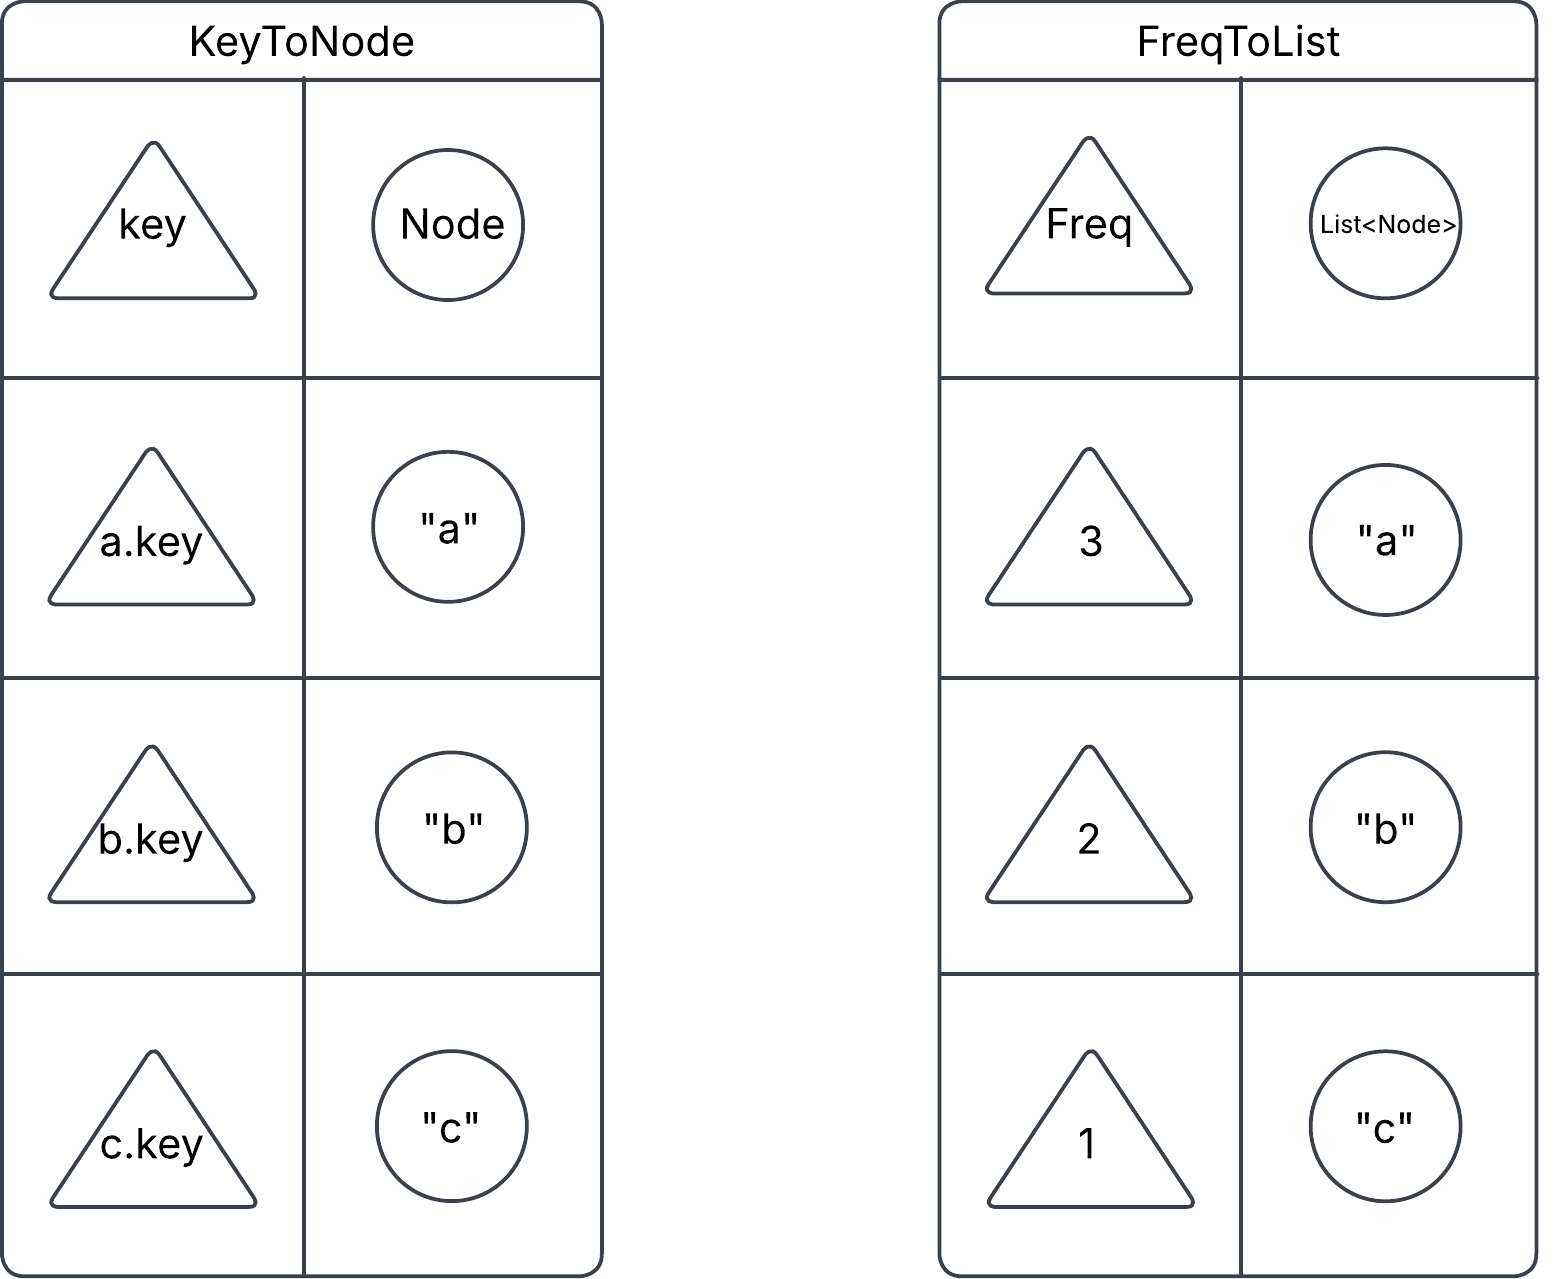
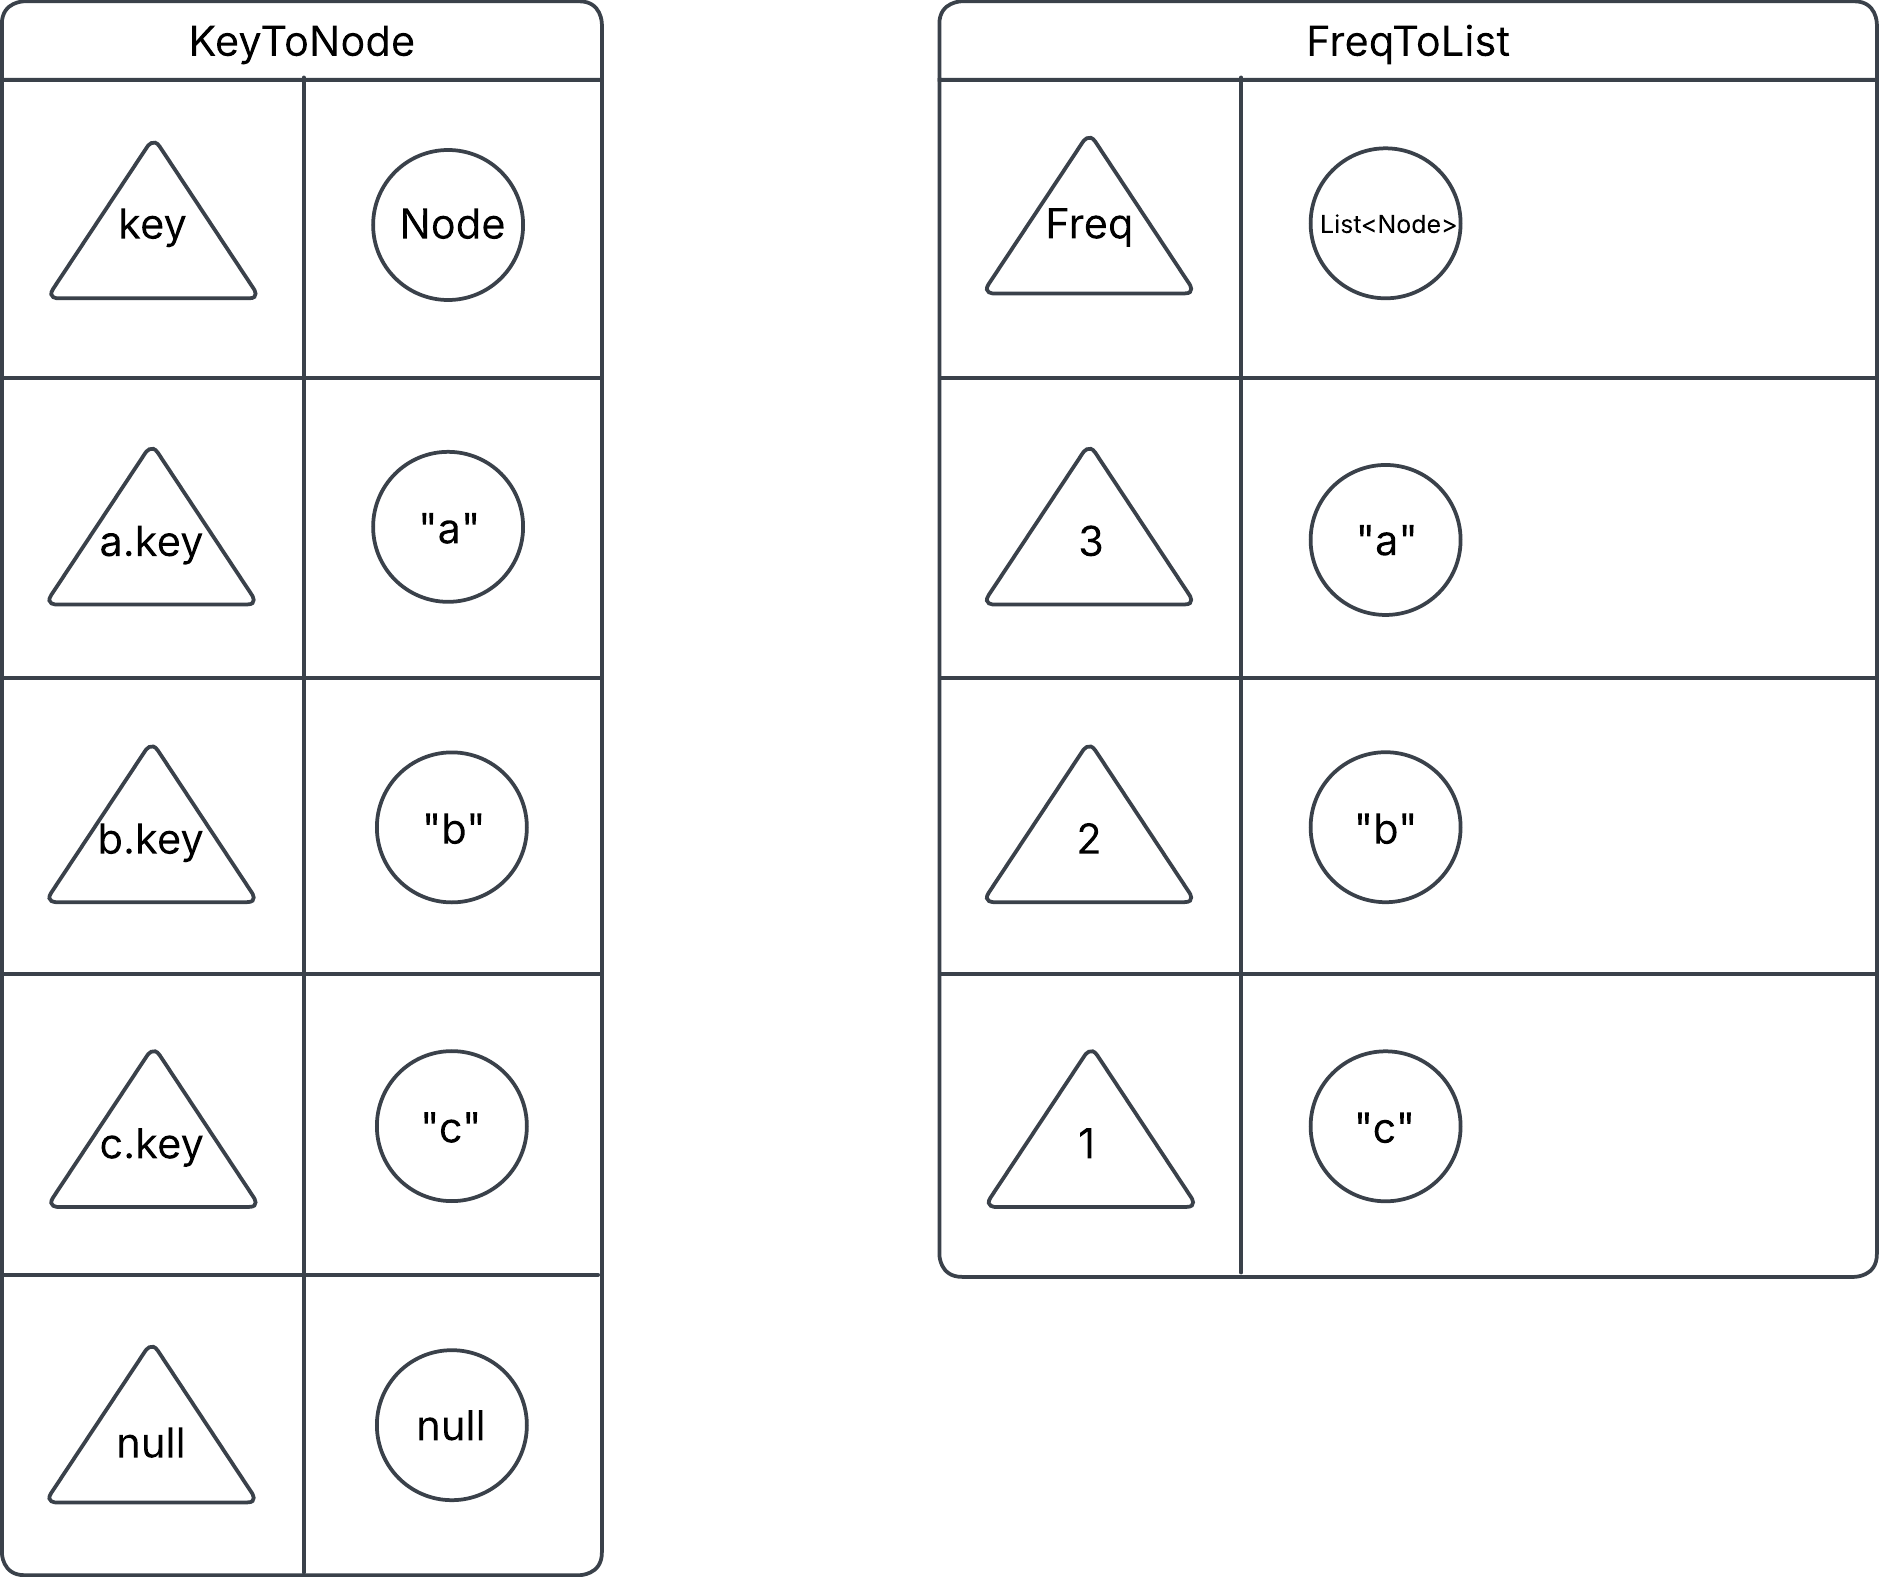
imagens atualizadas, erros de escrita corrigidos e simplificação de alguns trechos explicando a implementação.

diff --git a/content/posts/eda-lfu.md b/content/posts/eda-lfu.md
@@ -61,7 +61,7 @@ Estamos na mesma situação de busca por um elemento, cujo nó não existe no ca
 
 `[("a", 3), ("c", 2), ("d", 1)]`
 
-É importante lembrar, que ao remover o nó, esse elemento permanece no sistema. Logo, é irrelevante alterar a frequência de um nó removido para 0, pois este objeto será apagado, e, consequentemente, não possui frequência.
+É importante lembrar que, ao remover o nó, apagamos apenas o objeto que representa o elemento no cache. Se esse elemento for adicionado ao cache novamente, um novo objeto será criado, e possuirá frequência 1.
 
 Agora é um bom momento para testar seu aprendizado até este momento.
 
@@ -161,7 +161,7 @@ Utilizando o método ```get(String value)``` apresentado anteriormente, faremos 
 
 **hit:** A operação custa $O(n)$, pois temos que iterar pela lista até encontrar o elemento. Após incrementar a frequência do elemento, devemos ordenar a lista, em um processo análogo à inserção ordenada. Como a lista possui tamanho $n$, e fazemos uma busca linear, seguida de uma inserção ordenada, teremos custo total $O(n)$.
 
-**miss:** A opeação custa $O(n)$. Em nossa abordagem, escolhemos implementar o cache LFU como uma lista encadeada. Essa escolha foi intecional, porque a complexidade da adição em uma linkedlist é $O(1)$ (tempo constante). Porém, como ainda realizamos uma busca linear para procurar pelo elemento, que não estará na lista, e a lista tem tamanho n, a complexidade da busca será $O(n)$. Como sabemos, $O(n) + O(1)$ é $O(n)$.
+**miss:** A operação custa $O(n)$. Em nossa abordagem, escolhemos implementar o cache LFU como uma lista encadeada. Essa escolha foi intencional, porque a complexidade da adição em uma linkedlist é $O(1)$ (tempo constante). Porém, como ainda realizamos uma busca linear para procurar pelo elemento, que não estará na lista, e a lista tem tamanho n, a complexidade da busca será $O(n)$. Como sabemos, $O(n) + O(1)$ é $O(n)$.
 
 Além disso, em casos de ***miss***, a operação possui outro agravante, pois temos que ir ao banco de dados para realizar a busca pelo elemento, que é um ***processo lento***. Entretanto, este material não leva esses fatores em conta, pois estamos discutindo aspectos isolados da política LFU.
 
@@ -173,31 +173,45 @@ Com essas mudanças, nosso cache será composto por duas tabelas hash, uma respo
 
 Para os exemplos seguintes, assumimos o cache de tamanho 4, representado nesta imagem.
 
-<figure style="align: center; margin-left:5%; width: 90%"> 
+<figure style="align: center; width: 90%"> 
     <img src="cache-inicial.png">
 </figure>
 
-Em outras palavras, o cache funciona assim: Ao realizar a operação get, faremos a busca na tabela chave-nó. Caso o elemento exista no cache, devemos remover o nó da lista em que está contido. Em seguida, atualizamos sua frequência, e faremos sua inserção na nova lista de frequências. Abaixo, segue ilustração de como funciona o processo.
+O funcionamento do cache ocorre da seguinte forma: Ao realizar uma operação get, a busca por um nó que contém o elemento desejado é feita na tabela chave-nó. A partir do resultado dessa busca, o algoritmo divide-se em casos, que dependem do tamanho atual do cache.
 
-<figure style="align: center; margin-left:5%; width: 90%"> 
-    <img src="elemento-existente.png">
+Caso o elemento não possui nó existente no cache, verificamos a capacidade do cache. Se o cache possui espaço livre, adicionamos um novo nó que contém este elemento na tabela chave-nó, e na lista de frequência 1 na tabela frequência-lista. 
+
+<figure style="align: center; width: 90%"> 
+    <img src="cache-novo-elemento.png">
     <figcaption align="center">
-        A imagem mostra o resultado do cache após realizar get("d"). Note que removemos o nó da lista em que estava antes, e atualizamos sua frequência antes de adicionarmos o nó na tabela novamente.
     </figcaption>
 </figure>
 
-Note que o exemplo não cobre o caso em que aumentamos a frequência do elemento mais acessado no cache. Nesta situação, devemos verificar se a frequência existe como chave, antes de adicionar o nó à tabela.
+Se a busca encontrou um nó que contém o elemento, devemos remover o nó da lista em que está contido. Em seguida, atualizamos sua frequência, e faremos sua inserção na nova lista de frequências. Abaixo, segue ilustração de como funciona o processo.
 
-Se o nó não está no cache, verificamos a capacidade do cache. Se o cache estiver cheio, devemos recuperar a lista que possui os nós com a menor frequência, para remover estes elementos do cache. Após isso, adicionamos o novo nó às tabelas. Tome como exemplo, a imagem abaixo.
-
-<figure style="align: center; margin-left:5%; width: 90%"> 
-    <img src="elemento-naoexistente.png">
+<figure style="align: center; width: 90%"> 
+    <img src="cache-encontrou.png">
     <figcaption align="center">
-        A imagem mostra o resultado do cache após realizar get("e"). Note que removemos os nós com menor frequência do cache, antes de adicionar o elemento que procuramos.
     </figcaption>
 </figure>
 
-Observe também, que este modelo trata a situação em que existe mais de um nó com a menor frequência. Neste caso, apagaremos apenas o último elemento da lista. Se a lista esteja completamente vazia após remover o último nó
+Caso o nó encontrado pela busca seja o mais frequente do cache, criamos uma nova lista para armazenar os nós que possuem a frequência máxima, e repetimos o procedimento feito quando um nó é encontrado. Isto é, após criar a nova lista, removemos o nó, atualizamos sua frequência e inserimos este nó na lista correspondente. A imagem abaixo exemplifica essa situação.
+
+<figure style="align: center; width: 90%"> 
+    <img src="cache-frequencia-maxima.png">
+    <figcaption align="center">
+    </figcaption>
+</figure>
+
+Se o nó não foi encontrado, e a capacidade do cache foi atingida, devemos remover, conforme a nossa implementação, o último nó da lista de menor frequência. Após isso, adicionamos o novo nó às tabelas. Tome como exemplo a imagem abaixo.
+
+<figure style="align: center; width: 90%"> 
+    <img src="cache-evicted.png">
+    <figcaption align="center">
+    </figcaption>
+</figure>
+
+Além disso, se uma lista estiver vazia após atualizar a frequência de algum nó, ou, após alguma expulsão do cache, a frequência (chave) que aponta para essa lista deve ser removida da tabela. Isto é, se uma lista estiver vazia, ela será apagada. 
 
 Com essas otimizações, eliminamos a necessidade de manter a lista ordenada, pois conseguimos acessar um nó a partir da sua frequência. Além disso, como a complexidade da busca é reduzida a $O(1)$, pois fazemos o acesso em uma tabela hash. Portanto, a complexidade das operações do cache são $O(1)$. Note que, com essas otimizações, há ***maior consumo de memória***, porque estamos utilizando outras estruturas além da lista encadeada.
 
